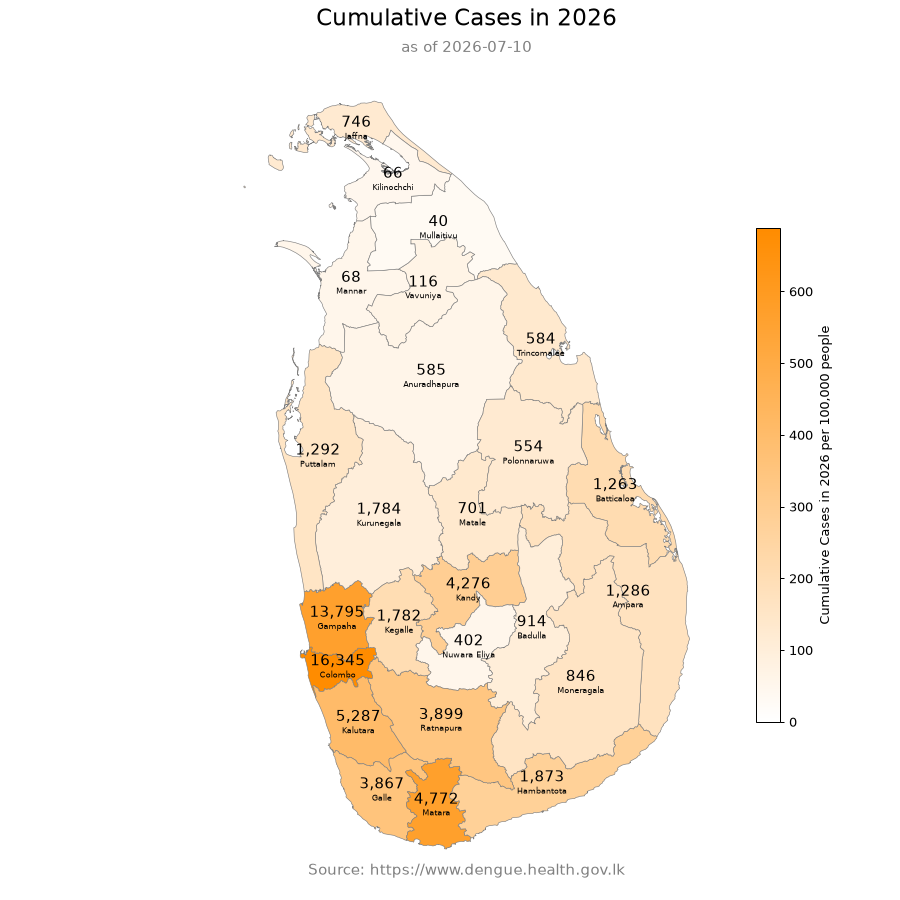
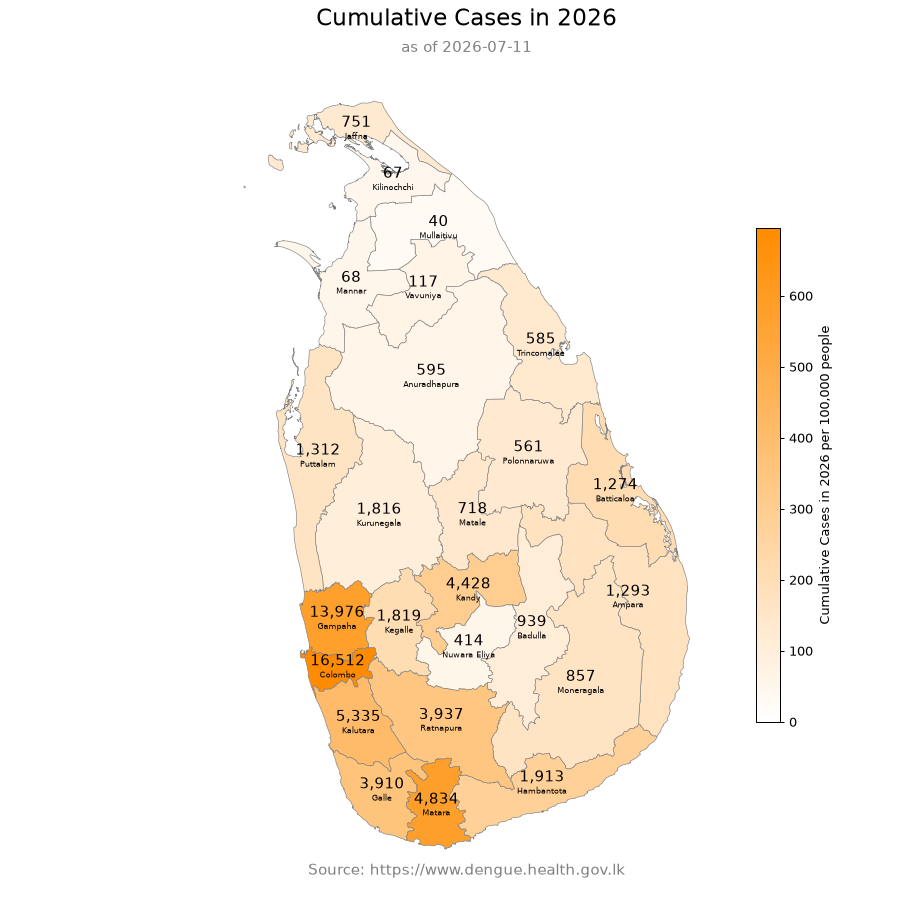
🤖 [pipeline.yml] 2026-07-12-1252

diff --git a/README.md b/README.md
@@ -273,6 +273,7 @@ As of 2026-07-05
 
 ### [National Dengue Control Unit - Daily Update](data/NDCUDaily)
 
+- [2026-07-11](data/NDCUDaily/2026/2026-07/2026-07-11)
 - [2026-07-10](data/NDCUDaily/2026/2026-07/2026-07-10)
 - [2026-07-09](data/NDCUDaily/2026/2026-07/2026-07-09)
 - [2026-07-08](data/NDCUDaily/2026/2026-07/2026-07-08)
